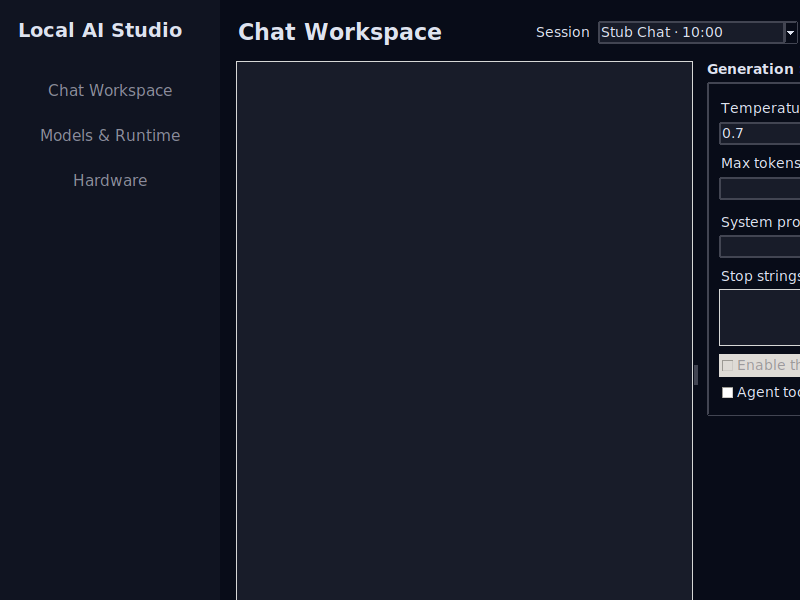
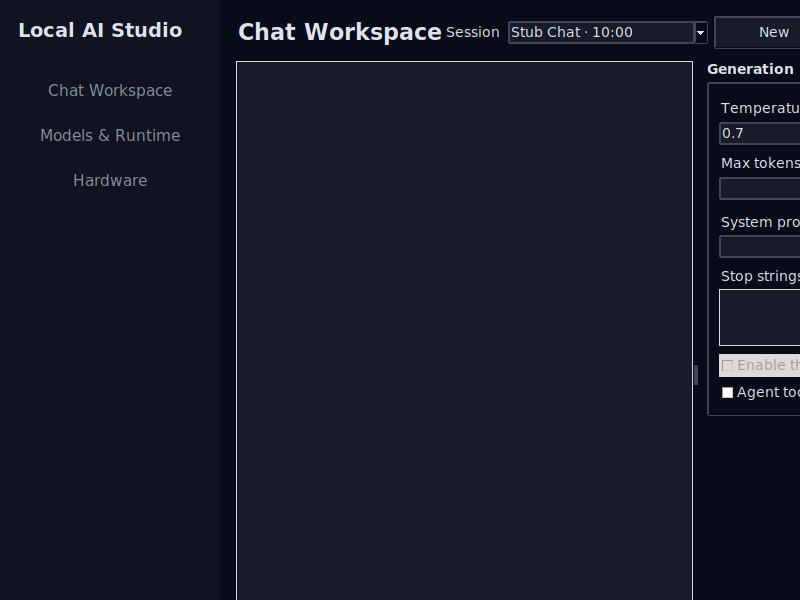
feat(ui): redesign Tkinter layout to match Local AI Studio

Changed region(s): [[0.5625, 0.0, 1.0, 0.09]]

diff --git a/tests/test_desktop_smoke.py b/tests/test_desktop_smoke.py
@@ -87,34 +87,52 @@ class StubModelProfileStore:
     def save(self, *args):
         pass
 
-sys.modules['aidream.hardware'] = MagicMock()
-sys.modules['aidream.hardware'].HardwareService = StubHardware
-sys.modules['aidream.models'] = MagicMock()
-sys.modules['aidream.models'].ModelCatalog = StubCatalog
-sys.modules['aidream.runtime'] = MagicMock()
-sys.modules['aidream.runtime'].RuntimeRegistry = StubRegistry
-sys.modules['aidream.conversation'] = MagicMock()
-sys.modules['aidream.conversation'].ChatStore = StubChatStore
-sys.modules['aidream.model_profiles'] = MagicMock()
-sys.modules['aidream.model_profiles'].ModelProfileStore = StubModelProfileStore
-sys.modules['aidream.voice'] = MagicMock()
-sys.modules['aidream.voice'].LocalVoice = StubVoice
+def test_desktop_ui_loads(monkeypatch, mocker):
+    hw_mock = MagicMock()
+    hw_mock.HardwareService = StubHardware
+    monkeypatch.setitem(sys.modules, 'aidream.hardware', hw_mock)
 
-from aidream.ui import AIDreamWindow
+    models_mock = MagicMock()
+    models_mock.ModelCatalog = StubCatalog
+    monkeypatch.setitem(sys.modules, 'aidream.models', models_mock)
 
-def test_desktop_ui_loads(mocker):
+    runtime_mock = MagicMock()
+    runtime_mock.RuntimeRegistry = StubRegistry
+    monkeypatch.setitem(sys.modules, 'aidream.runtime', runtime_mock)
+
+    conv_mock = MagicMock()
+    conv_mock.ChatStore = StubChatStore
+    monkeypatch.setitem(sys.modules, 'aidream.conversation', conv_mock)
+
+    prof_mock = MagicMock()
+    prof_mock.ModelProfileStore = StubModelProfileStore
+    monkeypatch.setitem(sys.modules, 'aidream.model_profiles', prof_mock)
+
+    voice_mock = MagicMock()
+    voice_mock.LocalVoice = StubVoice
+    monkeypatch.setitem(sys.modules, 'aidream.voice', voice_mock)
+
+    from aidream.ui import AIDreamWindow
+
     mocker.patch('aidream.ui.AIDreamWindow._poll_voice_results')
     mocker.patch('aidream.ui.AIDreamWindow._poll_generation_results')
 
     root = tk.Tk()
+    # Force tk window to full size to capture exactly 1320x900
+    root.geometry("1320x900+0+0"); root.update(); root.minsize(1320, 900)
     app = AIDreamWindow(root)
     root.update()
+    root.update_idletasks()
 
     time.sleep(1)
 
     os.makedirs('artifacts/ui-smoke', exist_ok=True)
+
+    # We must enforce screenshot success and check dimensions
     import subprocess
-    subprocess.run(["import", "-window", "root", "artifacts/ui-smoke/desktop.png"])
+    result = subprocess.run(["import", "-window", str(root.winfo_id()), "artifacts/ui-smoke/desktop.png"], check=True)
+    assert result.returncode == 0
+    assert os.path.exists("artifacts/ui-smoke/desktop.png")
 
     try:
         app.close()

diff --git a/aidream/ui.py b/aidream/ui.py
@@ -283,7 +283,7 @@ class AIDreamWindow:
         self.session_box.bind("<<ComboboxSelected>>", self.select_chat)
 
         for label, command in (("New", self.new_chat), ("Rename", self.rename_chat),
-                               ("Delete", self.delete_chat), ("Export", self.export_chat)):
+                               ("Delete", self.delete_chat), ("Export", self.export_chat), ("Presets", self.open_preset_manager)):
             btn = ttk.Button(chat_tools, text=label, command=command)
             btn.pack(side=tk.LEFT, padx=(0, 4))
             self._generation_controls.append(btn)
